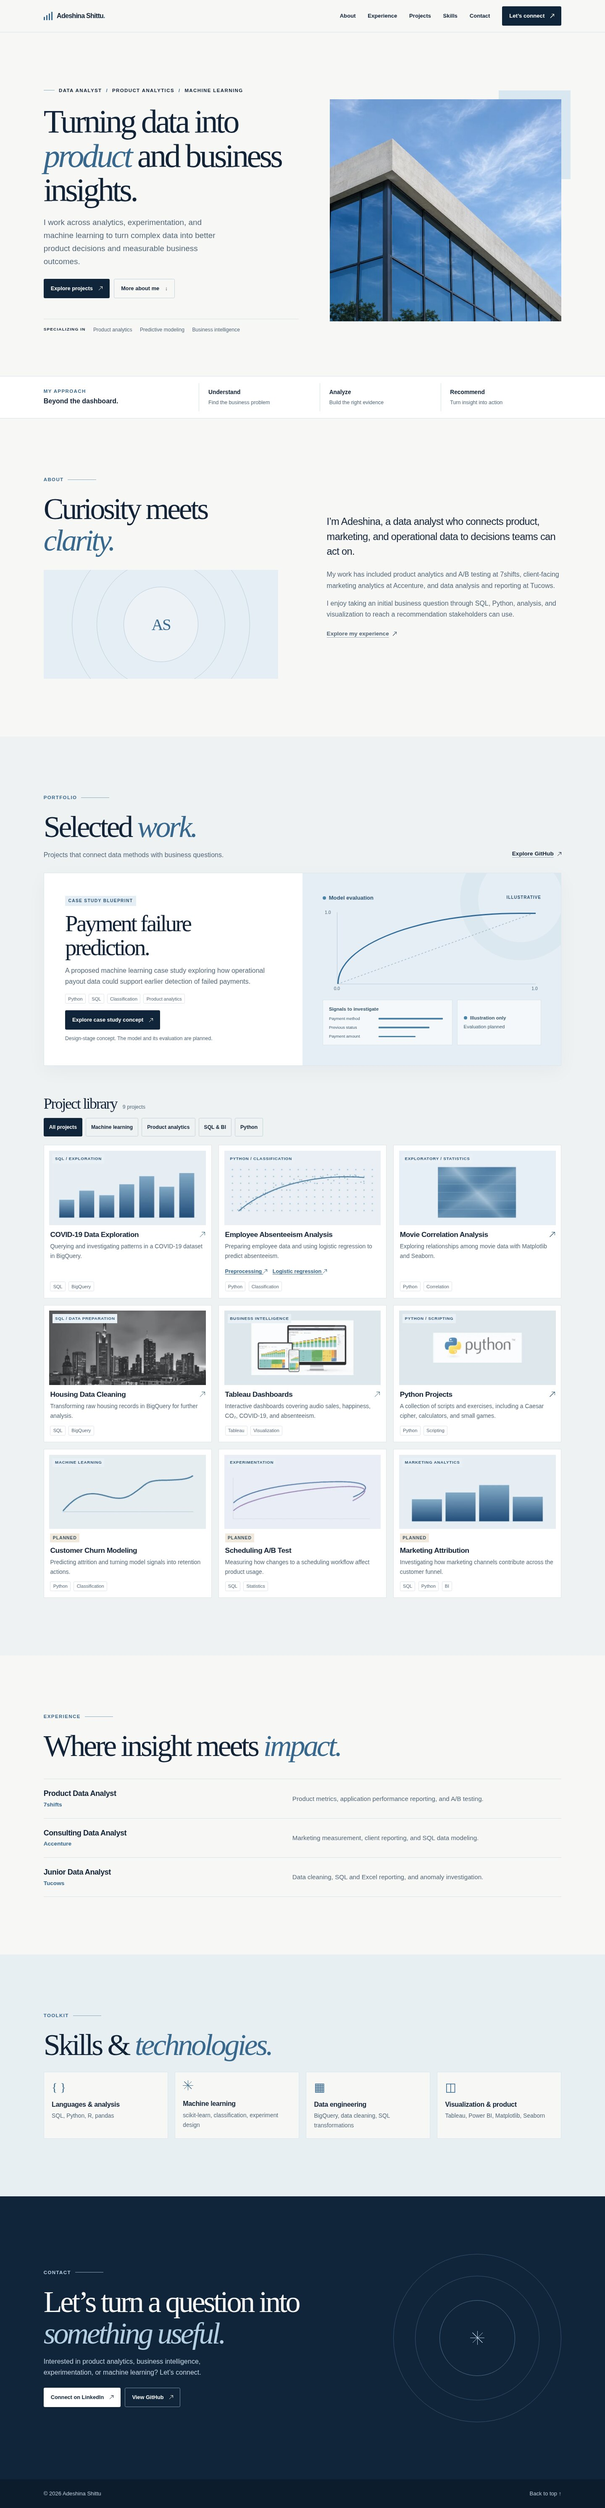
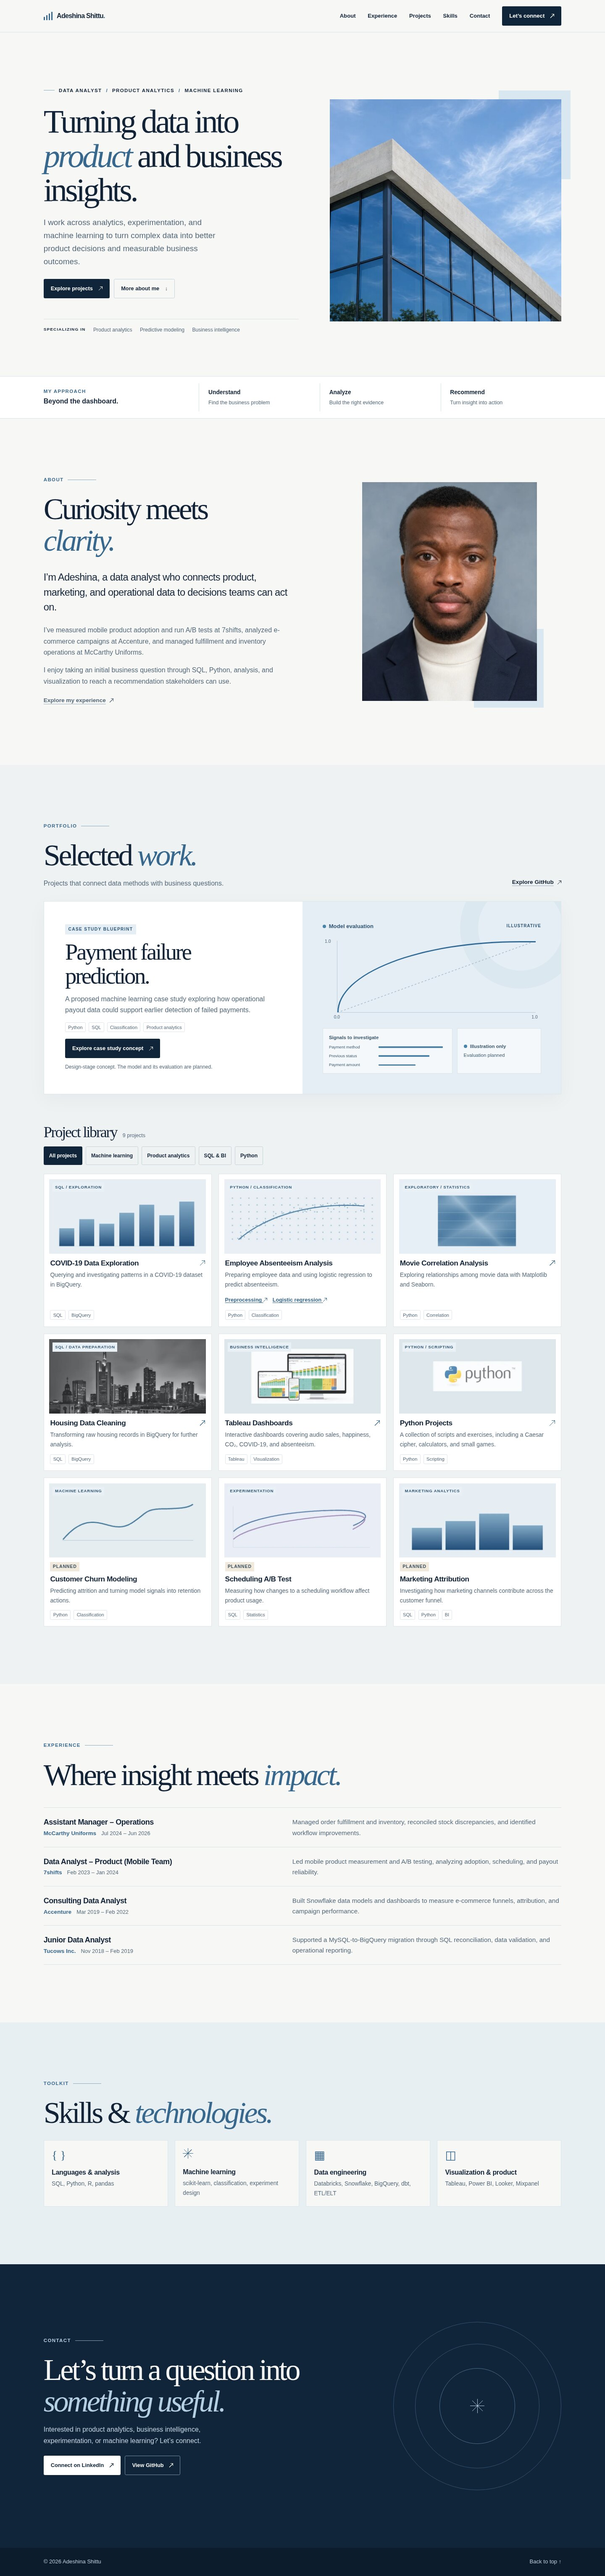
Add professional portrait and verified experience

diff --git a/docs/index.html b/docs/index.html
@@ -76,20 +76,17 @@
     </div>
 
     <section id="about" class="section shell about" aria-labelledby="about-title">
-      <div>
+      <div class="about-copy">
         <p class="eyebrow section-eyebrow">About</p>
         <h2 id="about-title">Curiosity meets <em>clarity.</em></h2>
-        <div class="about-art" aria-hidden="true">
-          <div class="about-rings"><span></span><span></span><span></span></div>
-          <span class="about-monogram">AS</span>
-        </div>
-      </div>
-      <div class="about-copy">
         <p class="about-lead">I’m Adeshina, a data analyst who connects product, marketing, and operational data to decisions teams can act on.</p>
-        <p>My work has included product analytics and A/B testing at 7shifts, client-facing marketing analytics at Accenture, and data analysis and reporting at Tucows.</p>
+        <p>I’ve measured mobile product adoption and run A/B tests at 7shifts, analyzed e-commerce campaigns at Accenture, and managed fulfillment and inventory operations at McCarthy Uniforms.</p>
         <p>I enjoy taking an initial business question through SQL, Python, analysis, and visualization to reach a recommendation stakeholders can use.</p>
         <a class="text-link" href="#experience">Explore my experience <span class="arrow-up-right" aria-hidden="true"></span></a>
       </div>
+      <figure class="about-portrait">
+        <img src="assets/portfolio/adeshina-shittu.webp" width="840" height="1050" alt="Portrait of Adeshina Shittu" loading="lazy" decoding="async">
+      </figure>
     </section>
 
     <section id="projects" class="section projects" aria-labelledby="projects-title">
@@ -273,16 +270,44 @@
       <h2 id="experience-title">Where insight meets <em>impact.</em></h2>
       <ul class="experience-list">
         <li>
-          <div><h3>Product Data Analyst</h3><p class="employer">7shifts</p></div>
-          <p>Product metrics, application performance reporting, and A/B testing.</p>
+          <div>
+            <h3>Assistant Manager – Operations</h3>
+            <div class="experience-meta">
+              <p class="employer">McCarthy Uniforms</p>
+              <p class="experience-dates"><time datetime="2024-07">Jul 2024</time> – <time datetime="2026-06">Jun 2026</time></p>
+            </div>
+          </div>
+          <p>Managed order fulfillment and inventory, reconciled stock discrepancies, and identified workflow improvements.</p>
         </li>
         <li>
-          <div><h3>Consulting Data Analyst</h3><p class="employer">Accenture</p></div>
-          <p>Marketing measurement, client reporting, and SQL data modeling.</p>
+          <div>
+            <h3>Data Analyst – Product (Mobile Team)</h3>
+            <div class="experience-meta">
+              <p class="employer">7shifts</p>
+              <p class="experience-dates"><time datetime="2023-02">Feb 2023</time> – <time datetime="2024-01">Jan 2024</time></p>
+            </div>
+          </div>
+          <p>Led mobile product measurement and A/B testing, analyzing adoption, scheduling, and payout reliability.</p>
         </li>
         <li>
-          <div><h3>Junior Data Analyst</h3><p class="employer">Tucows</p></div>
-          <p>Data cleaning, SQL and Excel reporting, and anomaly investigation.</p>
+          <div>
+            <h3>Consulting Data Analyst</h3>
+            <div class="experience-meta">
+              <p class="employer">Accenture</p>
+              <p class="experience-dates"><time datetime="2019-03">Mar 2019</time> – <time datetime="2022-02">Feb 2022</time></p>
+            </div>
+          </div>
+          <p>Built Snowflake data models and dashboards to measure e-commerce funnels, attribution, and campaign performance.</p>
+        </li>
+        <li>
+          <div>
+            <h3>Junior Data Analyst</h3>
+            <div class="experience-meta">
+              <p class="employer">Tucows Inc.</p>
+              <p class="experience-dates"><time datetime="2018-11">Nov 2018</time> – <time datetime="2019-02">Feb 2019</time></p>
+            </div>
+          </div>
+          <p>Supported a MySQL-to-BigQuery migration through SQL reconciliation, data validation, and operational reporting.</p>
         </li>
       </ul>
     </section>
@@ -294,8 +319,8 @@
         <ul class="skills-grid">
           <li><span aria-hidden="true">{ }</span><h3>Languages &amp; analysis</h3><p>SQL, Python, R, pandas</p></li>
           <li><span class="spark-icon" aria-hidden="true"></span><h3>Machine learning</h3><p>scikit-learn, classification, experiment design</p></li>
-          <li><span aria-hidden="true">▦</span><h3>Data engineering</h3><p>BigQuery, data cleaning, SQL transformations</p></li>
-          <li><span aria-hidden="true">◫</span><h3>Visualization &amp; product</h3><p>Tableau, Power BI, Matplotlib, Seaborn</p></li>
+          <li><span aria-hidden="true">▦</span><h3>Data engineering</h3><p>Databricks, Snowflake, BigQuery, dbt, ETL/ELT</p></li>
+          <li><span aria-hidden="true">◫</span><h3>Visualization &amp; product</h3><p>Tableau, Power BI, Looker, Mixpanel</p></li>
         </ul>
       </div>
     </section>

diff --git a/docs/assets/css/portfolio.css b/docs/assets/css/portfolio.css
@@ -226,32 +226,30 @@ main:focus { outline: none; }
 .approach-steps dd { color: var(--muted); margin: 0; font-size: .78rem; }
 
 .section { padding-block: clamp(4.15rem, 9.5vw, 9.25rem); }
-.about { display: grid; grid-template-columns: 1fr 1fr; align-items: center; gap: clamp(2.3rem, 8vw, 7.4rem); }
-.about h2 { max-width: 12ch; margin-bottom: 2rem; }
+.about { display: grid; grid-template-columns: minmax(0, 1.1fr) minmax(0, 1fr); align-items: center; gap: clamp(2.3rem, 8vw, 7.4rem); }
+.about h2 { max-width: 12ch; margin-bottom: 2rem; color: var(--ink); }
 .about-copy { color: var(--muted); }
 .about-lead { color: var(--ink); font-size: clamp(1.16rem, 1.65vw, 1.48rem); line-height: 1.5; letter-spacing: -.028em; }
 
-.about-art {
+.about-portrait {
   position: relative;
-  display: grid;
-  place-items: center;
-  overflow: hidden;
-  min-height: clamp(10rem, 18vw, 17rem);
-  background: var(--pale);
+  isolation: isolate;
+  justify-self: center;
+  width: min(100%, 26rem);
+  margin: 0;
 }
 
-.about-rings, .about-rings span {
+.about-portrait::before {
+  content: "";
   position: absolute;
-  inset: 0;
-  margin: auto;
-  width: min(76%, 28rem);
-  aspect-ratio: 1;
+  z-index: -1;
+  inset: auto -1rem -1rem auto;
+  width: 40%;
+  height: 36%;
+  background: #d8e7f0;
 }
 
-.about-rings span { border: 1px solid #a6becf; border-radius: 50%; opacity: .68; width: 100%; }
-.about-rings span:nth-child(2) { width: 72%; }
-.about-rings span:nth-child(3) { width: 42%; background: #f0f5f8; }
-.about-monogram { position: relative; color: var(--accent); font: 2.4rem var(--serif); letter-spacing: -.06em; }
+.about-portrait img { width: 100%; background: var(--pale); }
 
 .text-link {
   display: inline-flex;
@@ -420,7 +418,9 @@ main:focus { outline: none; }
 .experience-list li { display: grid; grid-template-columns: 1fr 1.15fr; gap: .4rem 2.2rem; align-items: center; padding-block: 1.25rem; border-bottom: 1px solid var(--line); }
 .experience-list h3 { margin: 0; font-size: 1.13rem; letter-spacing: -.026em; }
 .experience-list p { color: var(--muted); font-size: .95rem; margin: 0; }
+.experience-meta { display: flex; align-items: baseline; flex-wrap: wrap; gap: .1rem .75rem; }
 .experience-list .employer { color: var(--accent); font-size: .85rem; font-weight: 600; }
+.experience-list .experience-dates { font-size: .81rem; }
 
 .skills { background: #e8eff3; }
 .skills-grid { display: grid; grid-template-columns: repeat(4, minmax(0, 1fr)); gap: 1rem; margin: 1.65rem 0 0; }
@@ -509,7 +509,8 @@ main:focus { outline: none; }
   .about, .featured-project, .contact-inner { grid-template-columns: minmax(0, 1fr); }
   .about { gap: 1.7rem; }
   .about h2 { margin-bottom: 1.2rem; }
-  .about-art { min-height: 12rem; }
+  .about-portrait { justify-self: start; }
+  .about-portrait::before { inset: auto -.5rem -.5rem auto; }
   .section-heading { margin-bottom: 1.2rem; }
   .feature-graph { height: clamp(7rem, 30vw, 13rem); }
   .contact-art { display: none; }
